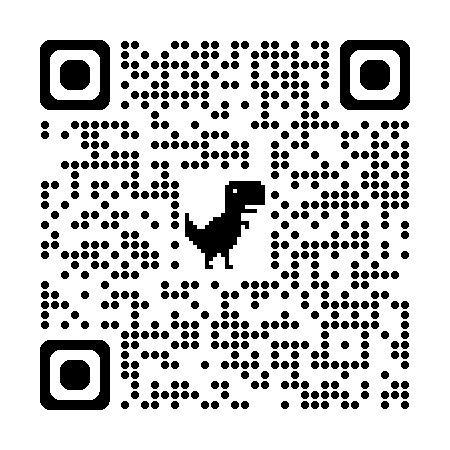
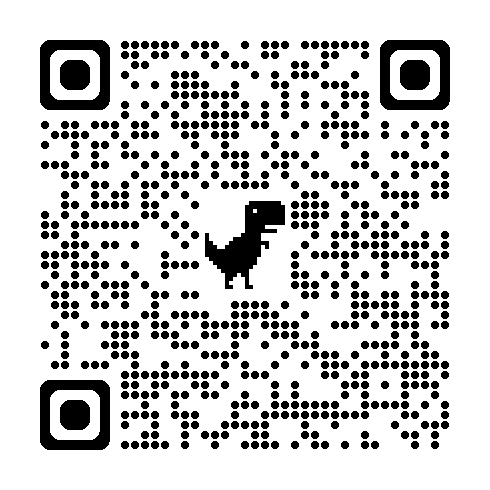
Update applylink in content_option.js for recruitment page

diff --git a/src/content_option.js b/src/content_option.js
@@ -301,7 +301,7 @@ const recruitmentpage =
     title1: "Through training by experienced professionals in photography, videography, design, layout, critical thinking, color theory, and software applications, you'll develop essential skills that will benefit both your studies and future career.",
     title2: "Not only will you gain knowledge, but you'll also develop soft skills like event organization, team management, and teamwork through the various events the club organizes.",
     button: "Apply Now !",
-    applylink: "https://www.facebook.com/somedia.vn.2016",
+    applylink: "https://docs.google.com/forms/d/e/1FAIpQLSdHWX3QwroaEbd-e-8ewjn4tb1Q7jDH3v_WeUM_p5_qbWo8XQ/viewform",
 };
 
 //-----------------------------------------------------------------------------------
